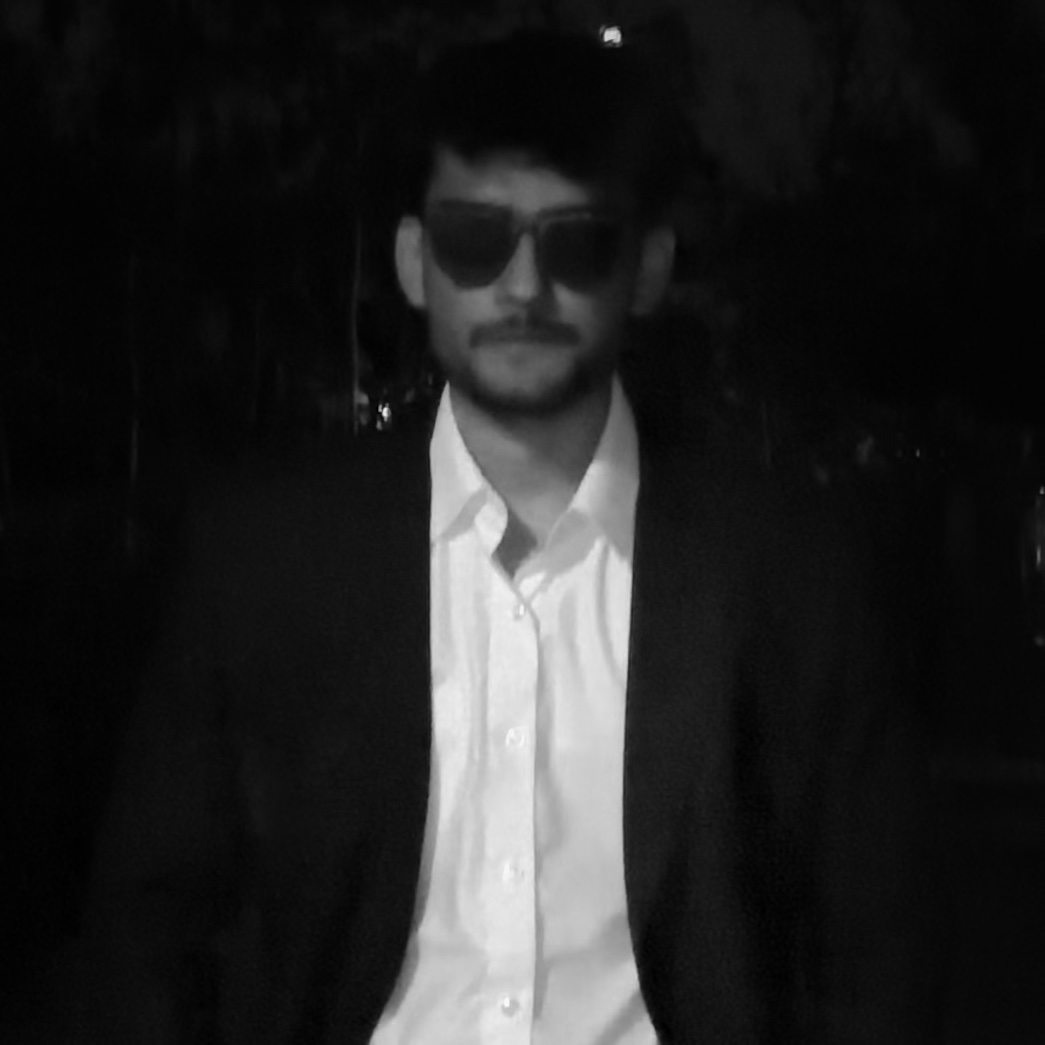
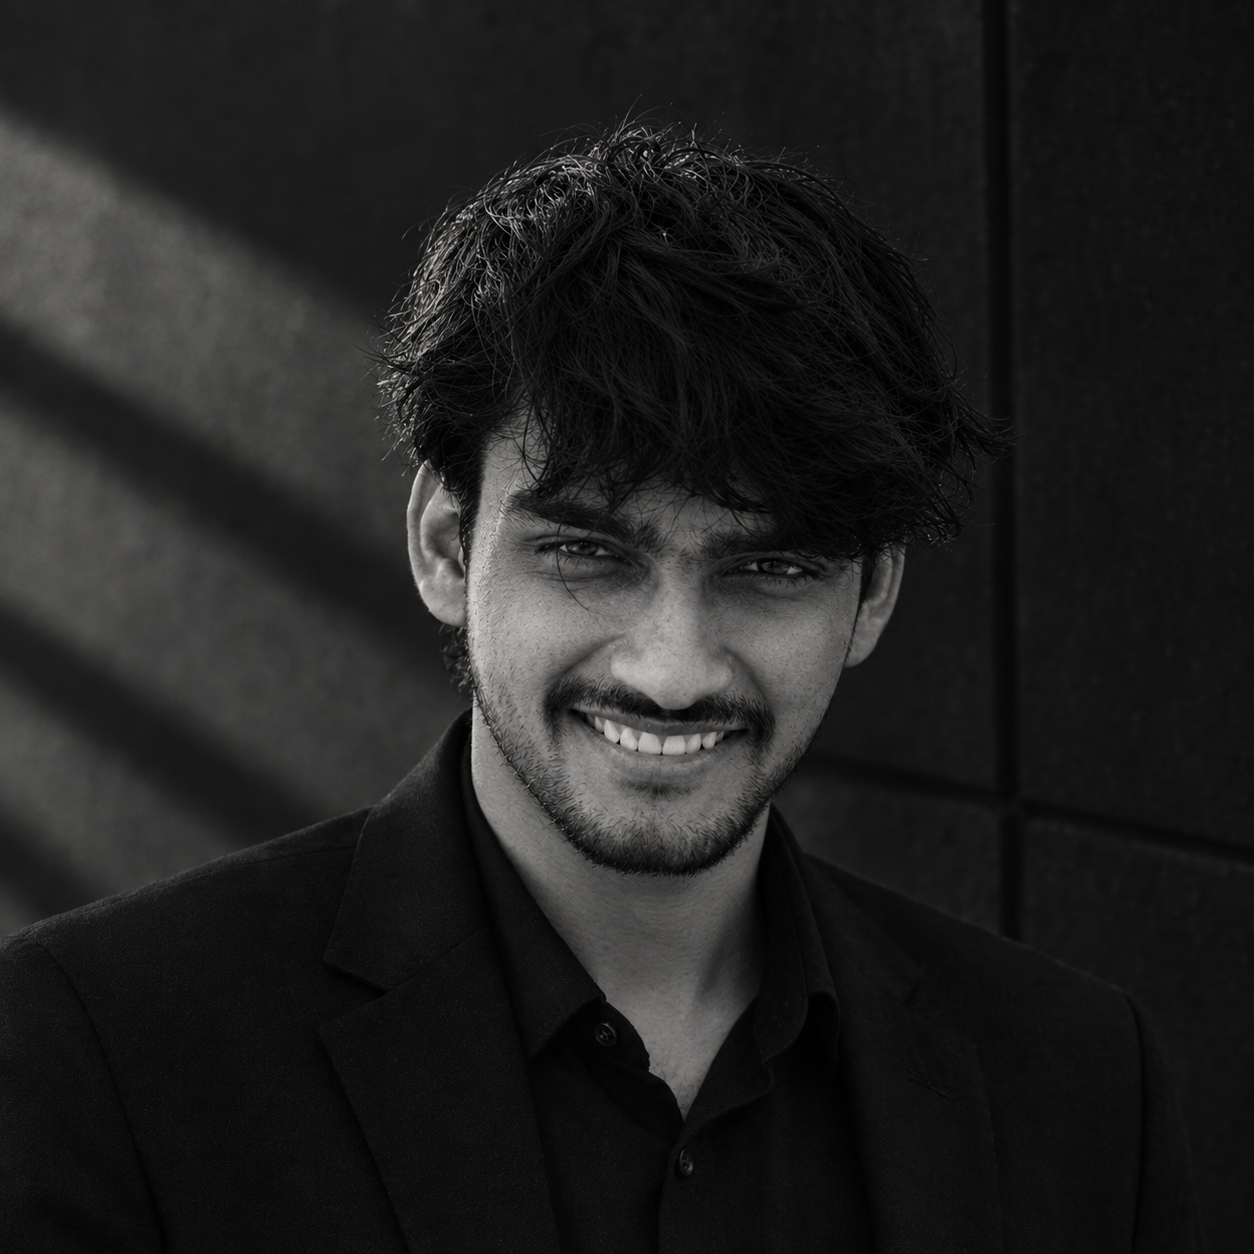
Update portfolio

diff --git a/src/data/portfolio.ts b/src/data/portfolio.ts
@@ -5,226 +5,229 @@
  */
 
 export interface NavItem {
-  label: string
-  href: string
+  label: string;
+  href: string;
 }
 
 export interface Project {
-  title: string
-  description: string
-  tech: string[]
-  image: string
-  github: string
-  demo: string
+  title: string;
+  description: string;
+  tech: string[];
+  image: string;
+  github: string;
+  demo: string;
 }
 
 export interface Experience {
-  role: string
-  period: string
-  responsibilities: string[]
+  role: string;
+  period: string;
+  responsibilities: string[];
 }
 
 export interface SkillGroup {
-  category: string
-  items: string[]
+  category: string;
+  items: string[];
 }
 
 export interface Achievement {
-  label: string
-  value: string
+  label: string;
+  value: string;
 }
 
 export interface SocialLink {
-  label: string
-  href: string
-  icon: 'github' | 'linkedin' | 'leetcode' | 'instagram' | 'mail'
+  label: string;
+  href: string;
+  icon: "github" | "linkedin" | "leetcode" | "instagram" | "mail";
 }
 
 export const site = {
-  name: 'Priyanshu Tiwari',
-  role: 'Software Engineer',
+  name: "Priyanshu Tiwari",
+  role: "Software Engineer",
   // TODO: replace with your deployed domain
-  url: 'https://priyanshutiwari.vercel.app',
-  email: 'priyanshuganeshtiwari@gmail.com', // TODO: replace with your email
-  location: 'Mumbai, India',
-  resume: '/resume.pdf',
-  profileImage: '/profile.png',
+  url: "https://priyanshutiwari.vercel.app",
+  email: "priyanshuganeshtiwari@gmail.com", // TODO: replace with your email
+  location: "Mumbai, India",
+  resume: "/resume.pdf",
+  profileImage: "/profile.png",
   tagline:
-    'Software Engineer specializing in Java backend development — building scalable, high-quality enterprise software.',
-}
+    "Software Engineer specializing in Java backend development — building scalable, high-quality enterprise software.",
+};
 
 export const nav: NavItem[] = [
-  { label: 'Home', href: '#home' },
-  { label: 'About', href: '#about' },
-  { label: 'Experience', href: '#experience' },
-  { label: 'Skills', href: '#skills' },
-  { label: 'Projects', href: '#projects' },
-  { label: 'Achievements', href: '#achievements' },
-  { label: 'Beyond Coding', href: '#beyond-coding' },
-  { label: 'Education', href: '#education' },
-  { label: 'Contact', href: '#contact' },
-]
+  { label: "Home", href: "#home" },
+  { label: "About", href: "#about" },
+  { label: "Experience", href: "#experience" },
+  { label: "Skills", href: "#skills" },
+  { label: "Projects", href: "#projects" },
+  { label: "Achievements", href: "#achievements" },
+  { label: "Beyond Coding", href: "#beyond-coding" },
+  { label: "Education", href: "#education" },
+  { label: "Contact", href: "#contact" },
+];
 
 export const about = {
   intro:
-    'Software Engineer specializing in Java backend development with experience in Spring Boot, REST APIs, cloud technologies, and scalable application development.',
+    "Software Engineer specializing in Java backend development with experience in Spring Boot, REST APIs, cloud technologies, and scalable application development.",
   paragraphs: [
-    'Started with MERN Stack development before transitioning into enterprise Java development.',
-    'Passionate about backend engineering, AI applications, problem solving, and building high-quality software.',
+    "Started with MERN Stack development before transitioning into enterprise Java development.",
+    "Passionate about backend engineering, AI applications, problem solving, and building high-quality software.",
   ],
   currentlyWorkingWith: [
-    'Java',
-    'Spring Boot',
-    'REST APIs',
-    'AWS',
-    'Docker',
-    'Kubernetes',
-    'React',
-    'CommerceTools',
-    'Git',
+    "Java",
+    "Spring Boot",
+    "Microservices",
+    "REST APIs",
+    "Jumpmind Commerce",
+    "CommerceTools",
+    "AWS",
+    "Docker",
+    "Kubernetes",
+    "React",
+    "Git",
   ],
-}
+};
 
 export const experiences: Experience[] = [
   {
-    role: 'Software Engineer',
-    period: 'October 2025 — Present',
+    role: "Software Engineer",
+    period: "October 2025 — Present",
     responsibilities: [
-      'Develop backend services using Java and Spring Boot.',
-      'Build REST APIs.',
-      'Work on enterprise POS applications.',
-      'Contribute to frontend development when required.',
-      'Develop backend services for Website Profile Service.',
-      'Collaborate with cross-functional teams.',
+      "Develop backend services using Java and Spring Boot.",
+      "Build REST APIs.",
+      "Work on enterprise POS applications.",
+      "Contribute to frontend development when required.",
+      "Develop backend services for Website Profile Service.",
+      "Collaborate with cross-functional teams.",
     ],
   },
-]
+];
 
 export const technicalBackground = {
-  intro: 'Before joining as a Software Engineer I focused on:',
+  intro: "Before joining as a Software Engineer I focused on:",
   items: [
-    'MERN Stack Development',
-    'Data Structures & Algorithms using Python',
-    'Full Stack Web Development',
-    'REST API Development',
-    'AI-powered applications',
+    "MERN Stack Development",
+    "Data Structures & Algorithms using Python",
+    "Full Stack Web Development",
+    "REST API Development",
+    "AI-powered applications",
   ],
-}
+};
 
 export const skills: SkillGroup[] = [
   {
-    category: 'Programming Languages',
-    items: ['Java', 'Python', 'JavaScript', 'SQL'],
+    category: "Programming Languages",
+    items: ["Java", "Python", "JavaScript", "SQL"],
   },
   {
-    category: 'Backend',
-    items: ['Spring Boot', 'Node.js', 'Express.js', 'Flask', 'REST APIs'],
+    category: "Backend",
+    items: ["Spring Boot", "Node.js", "Express.js", "Flask", "REST APIs"],
   },
   {
-    category: 'Frontend',
-    items: ['React', 'HTML', 'CSS', 'Tailwind CSS'],
+    category: "Frontend",
+    items: ["React", "JavaScript", "HTML", "CSS", "Tailwind CSS", "Vite"],
   },
   {
-    category: 'Database',
-    items: ['MySQL', 'MongoDB'],
+    category: "Database",
+    items: ["MySQL", "PostgreSQL", "MongoDB"],
   },
   {
-    category: 'Cloud & DevOps',
-    items: ['AWS', 'Docker', 'Kubernetes'],
+    category: "Cloud & DevOps",
+    items: ["AWS", "Docker", "Kubernetes"],
   },
   {
-    category: 'Tools',
-    items: ['Git', 'GitHub', 'Postman', 'CommerceTools'],
+    category: "Tools",
+    items: ["Git", "GitHub", "Postman", "CommerceTools"],
   },
-]
+];
 
 export const projects: Project[] = [
   {
-    title: 'ConversAI — Personalized Virtual Assistant',
+    title: "ConversAI — Personalized Virtual Assistant",
     description:
-      'An AI-powered virtual assistant with real-time conversations, speech-to-text and text-to-speech, intelligent actions, and context-aware responses.',
-    tech: ['MERN', 'Google Gemini API', 'Speech-to-Text', 'Text-to-Speech'],
-    image: '/projects/conversai.svg',
-    github: 'https://github.com/priyanshutiwari09/AI-Assistant', // TODO
-    demo: '#', // TODO: add live demo URL
+      "An AI-powered virtual assistant with real-time conversations, speech-to-text and text-to-speech, intelligent actions, and context-aware responses.",
+    tech: ["MERN", "Google Gemini API", "Speech-to-Text", "Text-to-Speech"],
+    image: "/projects/conversai.svg",
+    github: "https://github.com/priyanshutiwari09/AI-Assistant", // TODO
+    demo: "#", // TODO: add live demo URL
   },
   {
-    title: 'Real-Time Cross-Language Messenger',
+    title: "Real-Time Cross-Language Messenger",
     description:
-      'A real-time messaging platform with automatic translation between languages and a fully responsive interface, powered by Socket.IO.',
-    tech: ['MERN Stack', 'Socket.IO', 'Real-time', 'Auto Translation'],
-    image: '/projects/messenger.svg',
-    github: 'https://github.com/priyanshutiwari09/Chat-App-Mern', // TODO
-    demo: '#', // TODO: add live demo URL
+      "A real-time messaging platform with automatic translation between languages and a fully responsive interface, powered by Socket.IO.",
+    tech: ["MERN Stack", "Socket.IO", "Real-time", "Auto Translation"],
+    image: "/projects/messenger.svg",
+    github: "https://github.com/priyanshutiwari09/Chat-App-Mern", // TODO
+    demo: "#", // TODO: add live demo URL
   },
   {
-    title: 'Intelligent News Platform',
+    title: "Intelligent News Platform",
     description:
-      'A news platform with AI-generated summaries, role-based authentication, text-to-speech, and REST APIs built on the MERN stack with OpenAI integration.',
-    tech: ['MERN Stack', 'OpenAI', 'REST APIs', 'Role-based Auth'],
-    image: '/projects/news.svg',
-    github: 'https://github.com/priyanshutiwari09/news-portal', // TODO
-    demo: '#', // TODO: add live demo URL
+      "A news platform with AI-generated summaries, role-based authentication, text-to-speech, and REST APIs built on the MERN stack with OpenAI integration.",
+    tech: ["MERN Stack", "OpenAI", "REST APIs", "Role-based Auth"],
+    image: "/projects/news.svg",
+    github: "https://github.com/priyanshutiwari09/news-portal", // TODO
+    demo: "#", // TODO: add live demo URL
   },
   {
-    title: 'AI Follow-up Email Agent',
+    title: "AI Follow-up Email Agent",
     description:
-      'An agent that sends automatic follow-up emails with configurable intervals and multiple follow-up attempts. Python backend with a React frontend.',
-    tech: ['Python', 'React', 'Grok API', 'Automation'],
-    image: '/projects/email-agent.svg',
-    github: 'https://github.com/priyanshutiwari09/AI-Assistant', // TODO
-    demo: '#', // TODO: add live demo URL
+      "An agent that sends automatic follow-up emails with configurable intervals and multiple follow-up attempts. Python backend with a React frontend.",
+    tech: ["Python", "React", "Grok API", "Automation"],
+    image: "/projects/email-agent.svg",
+    github: "https://github.com/priyanshutiwari09/AI-Assistant", // TODO
+    demo: "#", // TODO: add live demo URL
   },
-]
+];
 
 export const achievements: Achievement[] = [
-  { label: 'LeetCode problems solved', value: '300+' },
-  { label: 'Acceptance rate', value: '63%' },
-  { label: 'Badge earned', value: '100 Days' },
-  { label: 'Badge earned', value: '50 Days' },
-]
+  { label: "LeetCode problems solved", value: "300+" },
+  { label: "Acceptance rate", value: "63%" },
+  { label: "Badge earned", value: "100 Days" },
+  { label: "Badge earned", value: "50 Days" },
+];
 
 export const beyondCoding = {
-  handle: '@mumbaiinlast24hrs',
-  followers: '215K+',
-  image: '/instagram.png',
+  handle: "@mumbaiinlast24hrs",
+  followers: "225K+",
+  image: "/instagram.png",
   description:
-    'Beyond software engineering, I manage @mumbaiinlast24hrs, a Mumbai-focused Instagram news platform with 215K+ followers. I’m also part of a broader news network that includes @indiainlast24hr (4M+ followers) and @worldinlast24hrs (1M+ followers), delivering local, national, and global news updates.',
-  url: 'https://www.instagram.com/mumbaiinlast24hrs', // TODO: verify handle URL
-}
+    "Beyond software engineering, I’m the Founder & Manager of @mumbaiinlast24hrs, a leading Mumbai-focused Instagram news platform with 215K+ followers. I’m also part of a broader news network that includes @indiainlast24hr (4.5M+ followers), @worldinlast24hrs (1M+ followers), and other prominent pages, delivering local, national, and global news updates.",
+  url: "https://www.instagram.com/mumbaiinlast24hrs", // TODO: verify handle URL
+};
 
 export const education = {
-  institution: 'Lokmanya Tilak College of Engineering',
-  university: 'Mumbai University',
-  degree: 'Bachelor of Engineering (Computer Science Engineering — Data Science)',
-  period: '2021 — 2025',
-  cgpa: 'CGPA: 8.0/10',
-}
+  institution: "Lokmanya Tilak College of Engineering",
+  university: "University of Mumbai",
+  degree:
+    "Bachelor of Engineering in Computer Science and Engineering (Data Science)",
+  period: "2021 — 2025",
+  cgpa: "CGPA: 8.0/10",
+};
 
 export const socials: SocialLink[] = [
   {
-    label: 'Email',
+    label: "Email",
     href: `mailto:${site.email}`,
-    icon: 'mail',
+    icon: "mail",
   },
   {
-    label: 'GitHub',
-    href: 'https://github.com/priyanshutiwari09', // TODO
-    icon: 'github',
+    label: "GitHub",
+    href: "https://github.com/priyanshutiwari09", // TODO
+    icon: "github",
   },
   {
-    label: 'LinkedIn',
-    href: 'https://www.linkedin.com/in/priyanshutiwari09', // TODO
-    icon: 'linkedin',
+    label: "LinkedIn",
+    href: "https://www.linkedin.com/in/priyanshutiwari09", // TODO
+    icon: "linkedin",
   },
   {
-    label: 'LeetCode',
-    href: 'https://leetcode.com/priyanshutiwari09', // TODO
-    icon: 'leetcode',
+    label: "LeetCode",
+    href: "https://leetcode.com/priyanshutiwari09", // TODO
+    icon: "leetcode",
   },
   {
-    label: 'Instagram',
-    href: 'https://www.instagram.com/prlyanshutiwari',
-    icon: 'instagram',
+    label: "Instagram",
+    href: "https://www.instagram.com/prlyanshutiwari",
+    icon: "instagram",
   },
-]
+];

diff --git a/src/components/Contact.tsx b/src/components/Contact.tsx
@@ -74,7 +74,7 @@ export function Contact() {
         index="08"
         eyebrow="Contact"
         title="Get in touch"
-        description="Have a role or a question? Send a message or reach me on any platform below."
+        description="Have a question or want to connect? Feel free to reach out on any platform below."
       />
 
       <div className="grid gap-8 lg:grid-cols-[1fr_1fr]">
